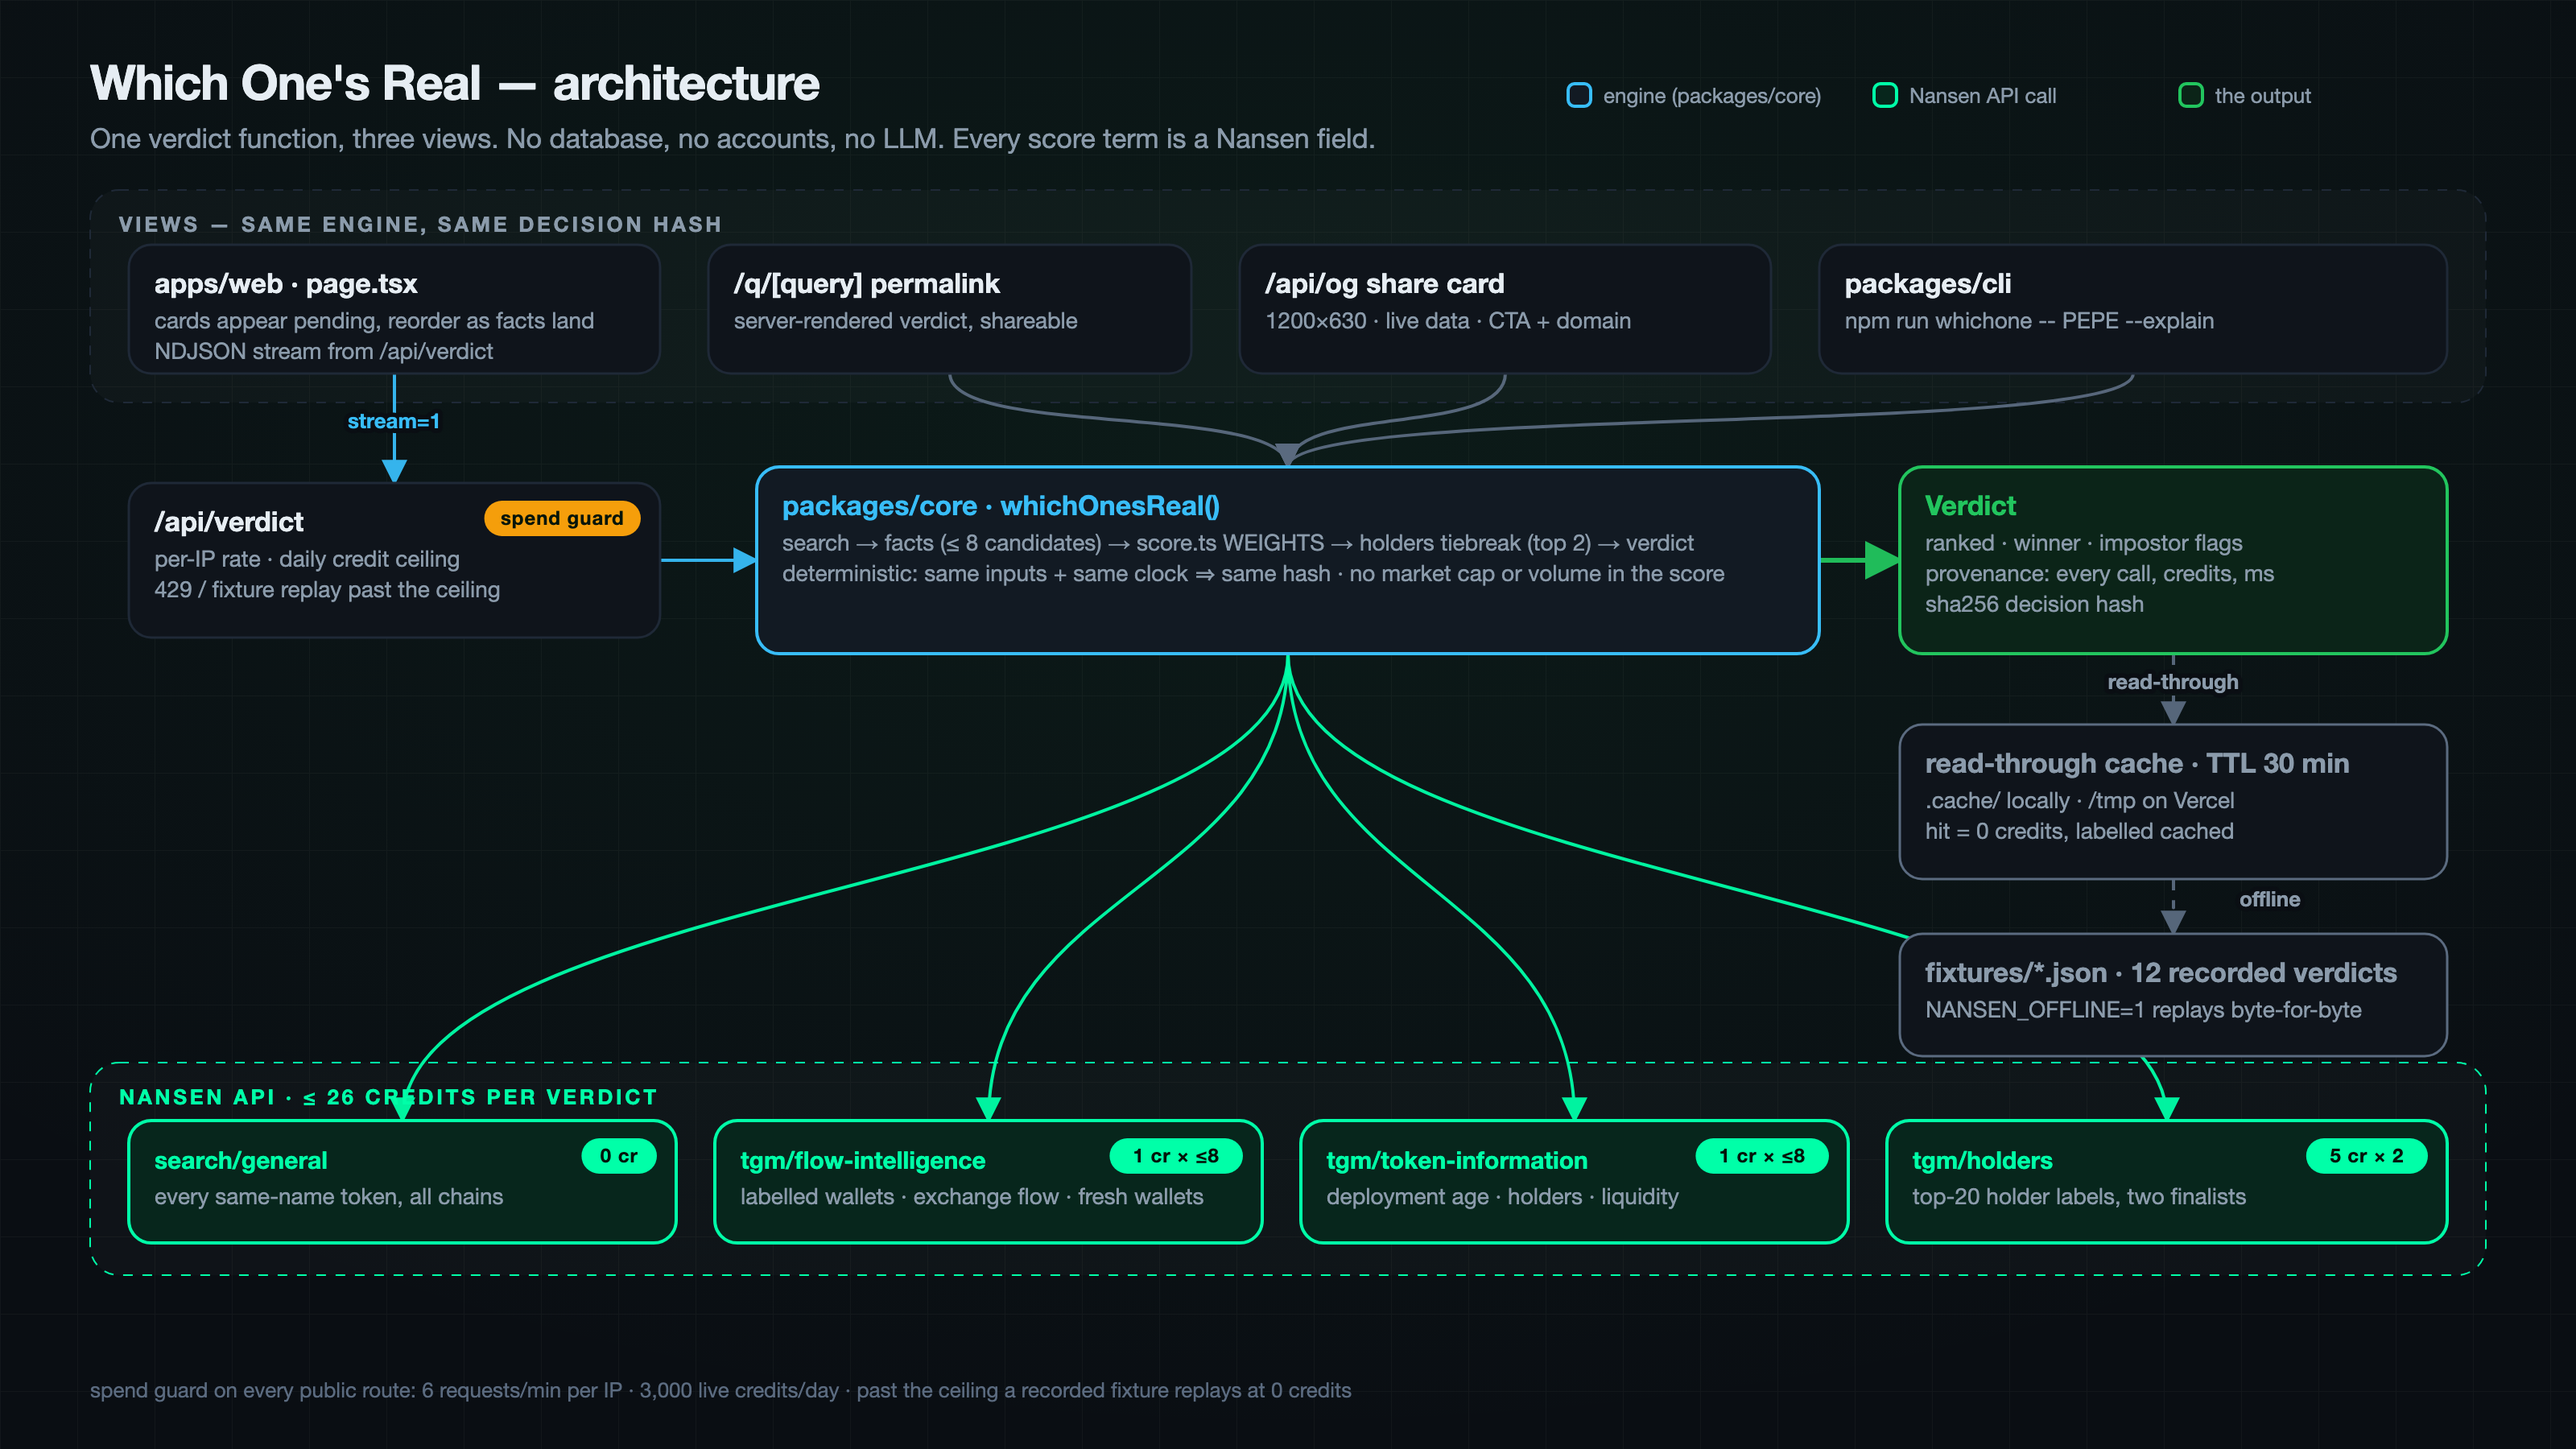
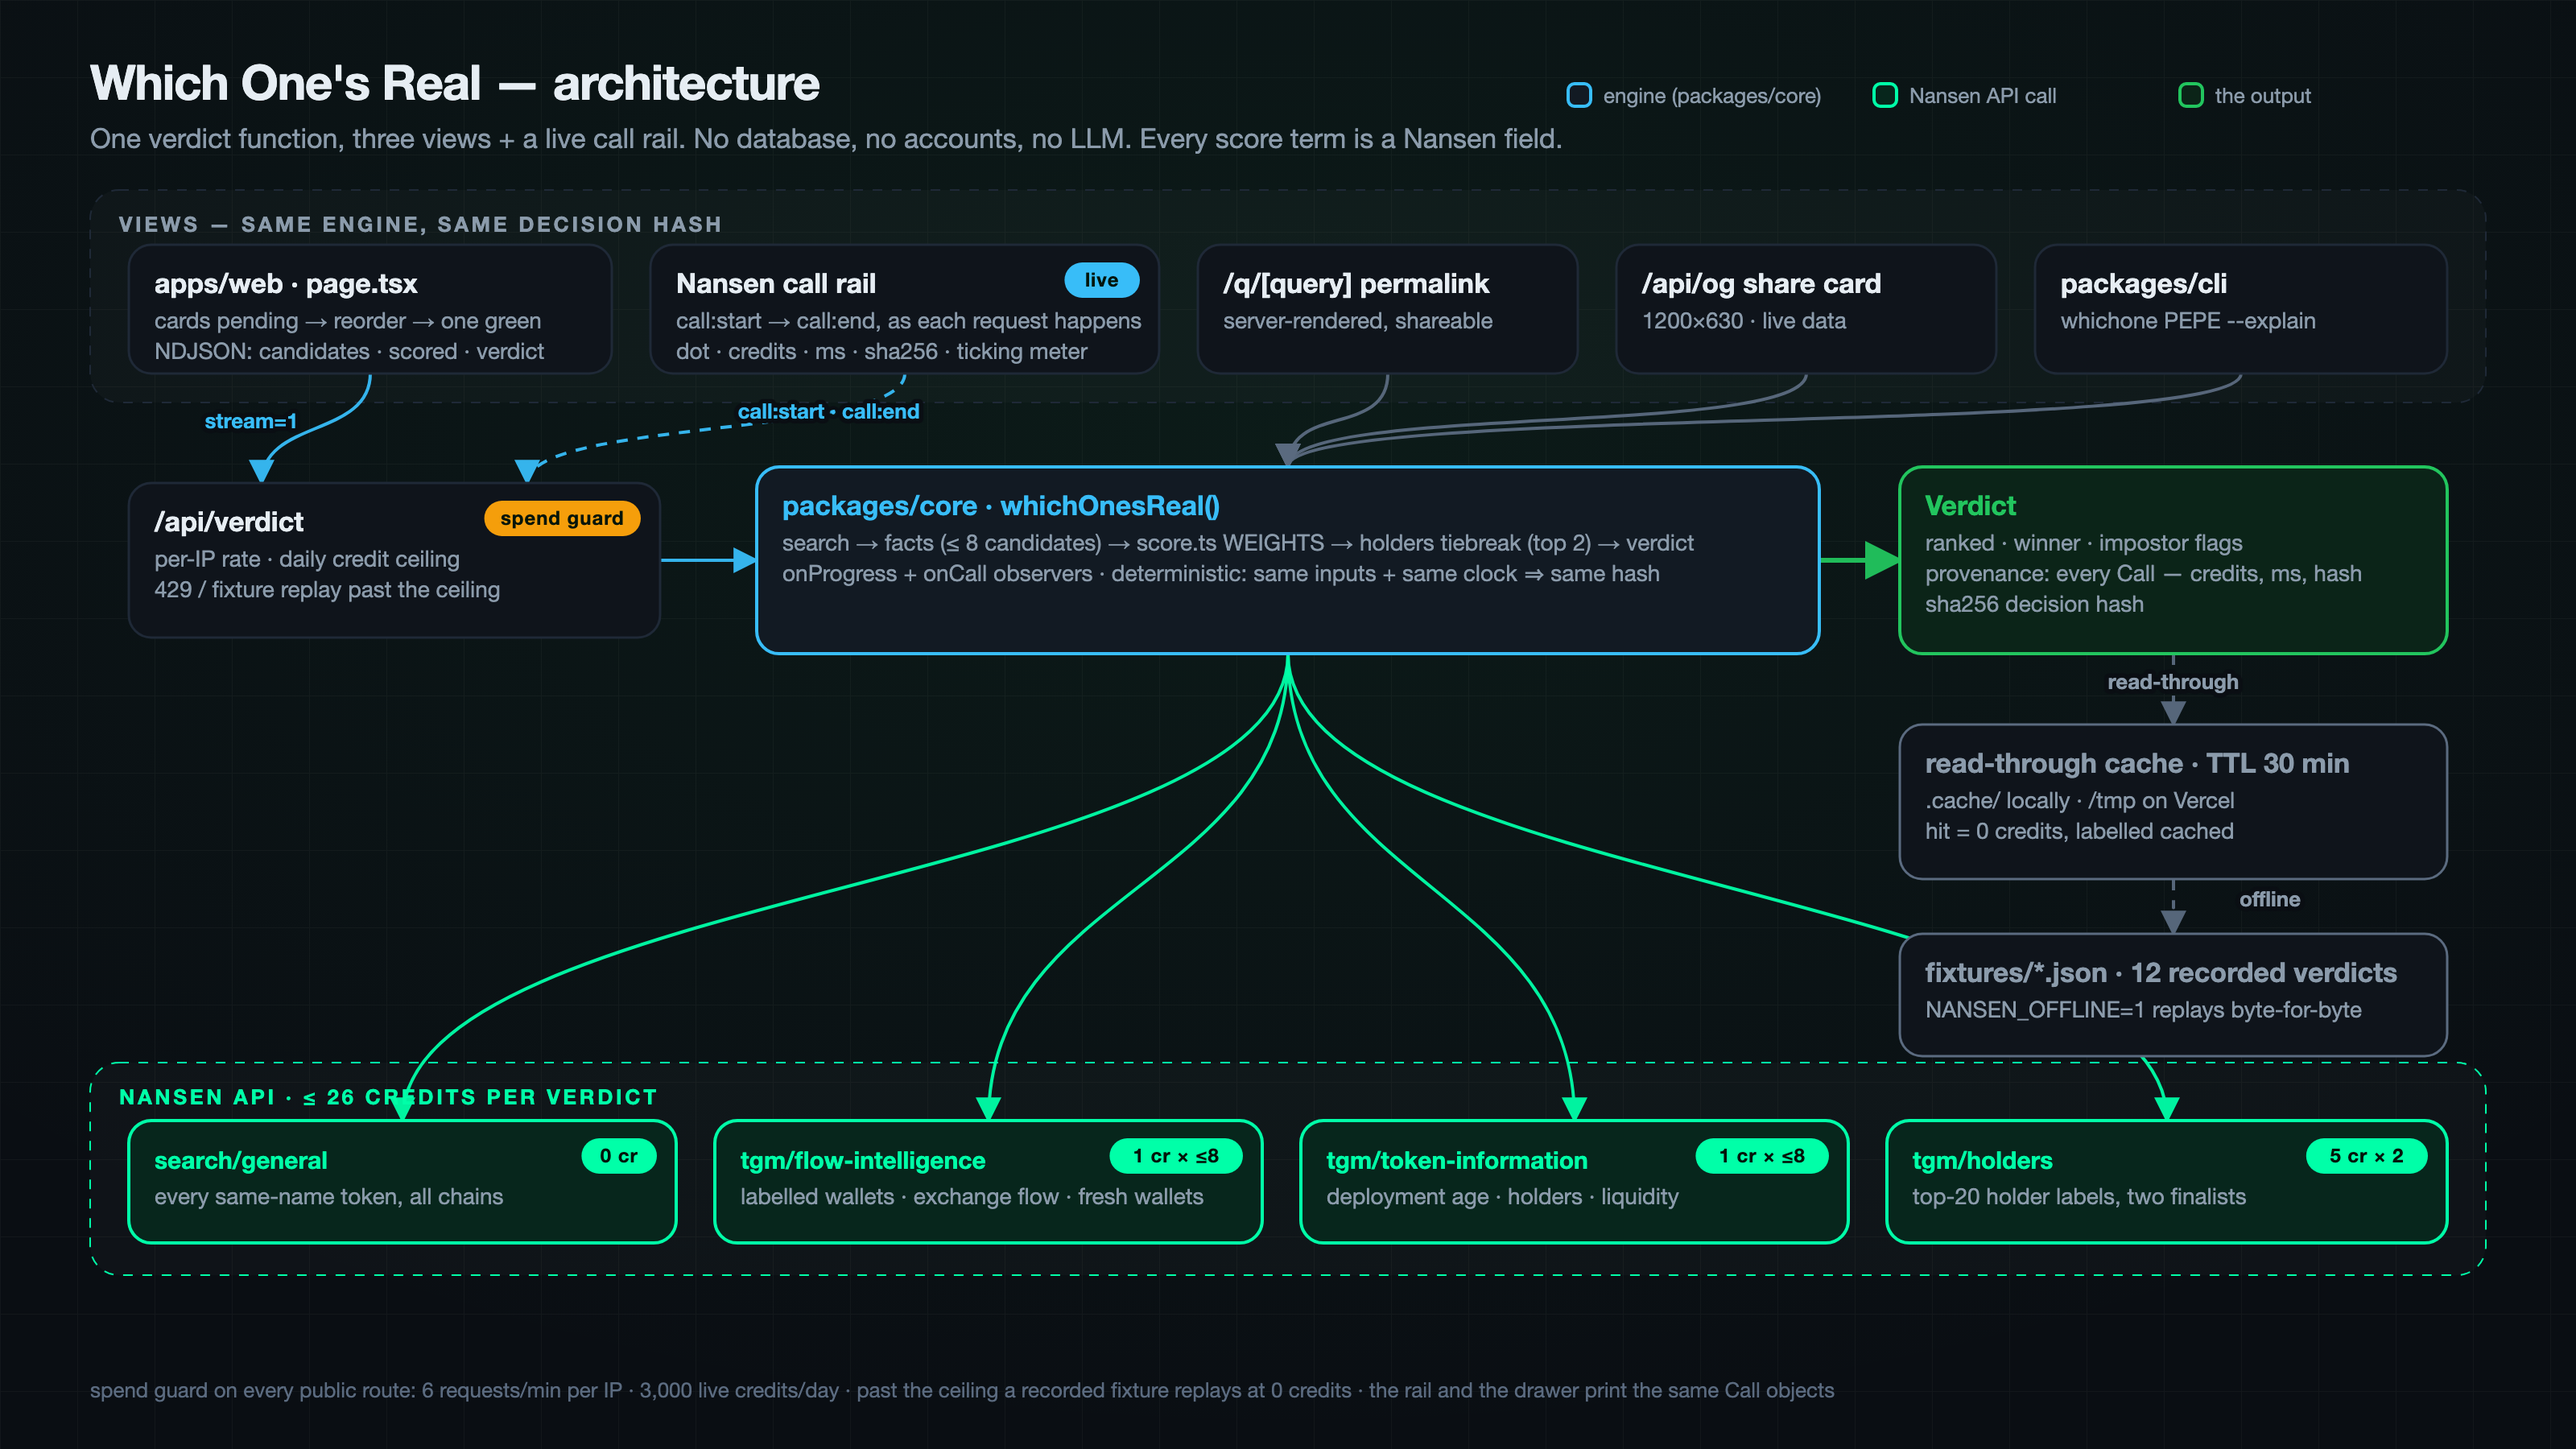
docs(readme): architecture PNG re-rendered with the call rail (HTML → 2× PNG); Mermaid source kept folded in <details>

diff --git a/apps/web/components/Whichone.tsx b/apps/web/components/Whichone.tsx
@@ -142,6 +142,16 @@ export function Whichone({
     [stream],
   );
 
+  // Escape closes the provenance drawer (the recording and keyboard users both expect it)
+  useEffect(() => {
+    if (!drawer) return;
+    const onKey = (e: KeyboardEvent) => {
+      if (e.key === "Escape") setDrawer(false);
+    };
+    addEventListener("keydown", onKey);
+    return () => removeEventListener("keydown", onKey);
+  }, [drawer]);
+
   useEffect(() => {
     // stream() sets state only from inside the response loop and its catch — every call is after `await fetch`; the
     // compiler lint cannot see across that async boundary, so it is silenced for this one line, not the file

diff --git a/apps/web/components/Rail.tsx b/apps/web/components/Rail.tsx
@@ -179,6 +179,16 @@ export function Rail({
   }, [running]);
   const clock = running && now != null ? now : null;
 
+  // Escape closes the sheet (< 1280 px) and hands focus back to the bar
+  useEffect(() => {
+    if (!open) return;
+    const onKey = (e: KeyboardEvent) => {
+      if (e.key === "Escape") setOpen(false);
+    };
+    addEventListener("keydown", onKey);
+    return () => removeEventListener("keydown", onKey);
+  }, [open]);
+
   // oldest at top, auto-scroll to the newest row unless the reader has scrolled up to study earlier ones
   useEffect(() => {
     const el = listRef.current;

diff --git a/README.md b/README.md
@@ -75,7 +75,7 @@ Worked with real numbers in [docs/SCORING.md](docs/SCORING.md). Weights live in 
 
 One verdict function, three views. No database, no accounts, no LLM.
 
-<p align="center"><img src="docs/assets/architecture.png" alt="Which One's Real architecture — views → /api/verdict (spend guard) → packages/core whichOnesReal → four Nansen endpoints; verdict with provenance; cache and fixtures" width="100%"></p>
+<p align="center"><img src="docs/assets/architecture.png" alt="Which One's Real architecture — views (web page, live Nansen call rail, permalink, OG card, CLI) → /api/verdict with spend guard → packages/core whichOnesReal → four Nansen endpoints with credits → verdict with provenance; read-through cache and offline fixtures" width="100%"></p>
 
 <details>
 <summary><b>Mermaid source</b> — expand to see the diagram as text (renders on GitHub)</summary>
@@ -84,6 +84,7 @@ One verdict function, three views. No database, no accounts, no LLM.
 flowchart TB
   subgraph views
     W[apps/web · page.tsx] -->|NDJSON stream| R[/api/verdict/]
+    RL[Nansen call rail · live meter] -.->|call:start · call:end| R
     Q[/q/:query permalink/] --> K
     OG[/api/og share card/] --> K
     C[packages/cli] --> K

diff --git a/ARCHITECTURE.md b/ARCHITECTURE.md
@@ -6,6 +6,7 @@ One verdict function, three views. No database, no accounts, no LLM: determinist
 flowchart TB
   subgraph views
     W[apps/web · page.tsx] -->|NDJSON stream| R[/api/verdict/]
+    RL[Nansen call rail · live meter] -.->|call:start · call:end| R
     Q[/q/:query permalink/] --> K
     OG[/api/og share card/] --> K
     C[packages/cli] --> K
